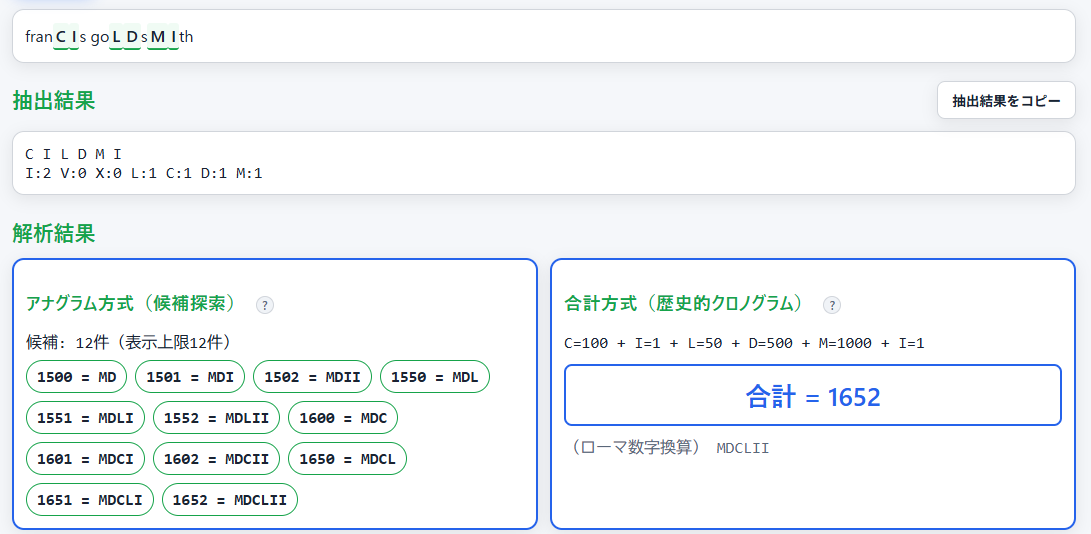
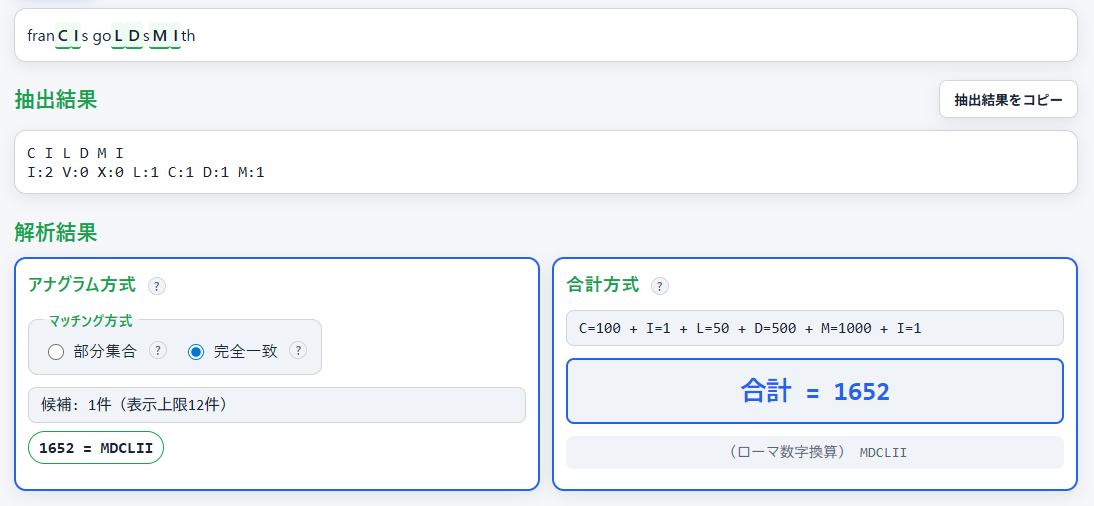
解析結果に改善を加えた

diff --git a/script.js b/script.js
@@ -41,11 +41,22 @@ function countLetters(str, filterToRoman=true){
 }
 
 // Check if romanStr can be formed from available roman letter counts
-function canFormFromCounts(romanStr, availableCounts){
+// mode: 'subset' (default) allows partial use, 'exact' requires all letters to be used
+function canFormFromCounts(romanStr, availableCounts, mode='subset'){
   const need = countLetters(romanStr, false);
+
+  // Check if we have enough of each needed letter
   for(const k in need){
     if(!availableCounts[k] || availableCounts[k] < need[k]) return false;
   }
+
+  // If exact mode, check that all available letters are used
+  if(mode === 'exact'){
+    for(const k in availableCounts){
+      if(availableCounts[k] !== (need[k] || 0)) return false;
+    }
+  }
+
   return true;
 }
 
@@ -168,24 +179,46 @@ function escapeHtml(s){
 }
 
 // ====== Sum (historical chronogram) ======
-function sumRomanLetters(letters){
+// mode: 'addition' (default) - simple sum, 'subtraction' - apply roman numeral subtraction rules
+function sumRomanLetters(letters, mode='addition'){
   let sum = 0;
   const steps = [];
-  for(const ch of letters){
-    const v = ROMAN_VALUES[ch] || 0;
-    sum += v;
-    steps.push(`${ch}=${v}`);
+
+  if(mode === 'subtraction'){
+    // Apply subtractive notation rules (IV=4, IX=9, XL=40, XC=90, CD=400, CM=900)
+    for(let i = 0; i < letters.length; i++){
+      const current = ROMAN_VALUES[letters[i]] || 0;
+      const next = i + 1 < letters.length ? (ROMAN_VALUES[letters[i+1]] || 0) : 0;
+
+      if(current < next){
+        // Subtraction case: smaller value before larger
+        sum -= current;
+        steps.push(`${letters[i]}=-${current}`);
+      } else {
+        // Addition case
+        sum += current;
+        steps.push(`${letters[i]}=+${current}`);
+      }
+    }
+  } else {
+    // Simple addition (historical chronogram method)
+    for(const ch of letters){
+      const v = ROMAN_VALUES[ch] || 0;
+      sum += v;
+      steps.push(`${ch}=${v}`);
+    }
   }
+
   return { sum, steps };
 }
 
 // ====== Anagram search ======
-function findAnagramYears(availableCounts, minYear, maxYear, maxShow=10){
+function findAnagramYears(availableCounts, minYear, maxYear, maxShow=10, mode='subset'){
   const found = [];
   for(let y = Math.max(1, minYear); y <= Math.max(minYear, maxYear); y++){
     const roman = intToRoman(y);
     if(!roman) continue;
-    if(canFormFromCounts(roman, availableCounts)){
+    if(canFormFromCounts(roman, availableCounts, mode)){
       found.push({ year:y, roman });
       if(found.length >= maxShow) break;
     }
@@ -322,8 +355,16 @@ updateButtonStates();
 // Update button states on input change
 $('#inputText').addEventListener('input', updateButtonStates);
 
-// Analyze
-$('#analyzeBtn').addEventListener('click', ()=>{
+// Store extracted data for recomputation
+let extractedData = {
+  letters: [],
+  counts: {},
+  minYear: 1500,
+  maxYear: 2100
+};
+
+// Main analysis function
+function performAnalysis(){
   const text = $('#inputText').value || "";
 
   // Input validation: limit text length to prevent DoS
@@ -355,34 +396,81 @@ $('#analyzeBtn').addEventListener('click', ()=>{
   const countsStr = ROMAN_KEYS.map(k=>`${k}:${counts[k]}`).join('  ');
   $('#letterCounts').textContent = countsStr;
 
-  // Sum method
-  const { sum, steps } = sumRomanLetters(letters);
-  $('#sumBreakdown').textContent = steps.length ? steps.join(' + ') : '（該当なし）';
-  $('#sumTotal').textContent = steps.length ? `合計 = ${sum}` : '合計 = 0';
-  $('#sumRoman').textContent = steps.length ? `（ローマ数字換算） ${intToRoman(sum)}` : '';
+  // Store extracted data for later recomputation
+  extractedData = { letters, counts, minYear, maxYear };
 
-  // Anagram method (always enabled)
-  if(letters.length){
-    const av = counts; // available counts
-    const candidates = findAnagramYears(av, minYear, maxYear, 12);
-    $('#anagramSummary').textContent = candidates.length
-      ? `候補: ${candidates.length}件（表示上限12件）`
-      : `候補なし（範囲: ${minYear}–${maxYear}）`;
-    const box = $('#anagramCandidates');
-    box.innerHTML = "";
-    candidates.forEach(c=>{
-      const tag = document.createElement('span');
-      tag.className = 'tag good mono';
-      tag.textContent = `${c.year} = ${c.roman}`;
-      box.appendChild(tag);
-    });
-  }else{
-    $('#anagramSummary').textContent = '（抽出なしのため探索をスキップ）';
-    $('#anagramCandidates').innerHTML = "";
-  }
+  // Update results with current modes
+  updateResults();
 
   // Update button states after analysis
   updateButtonStates();
+}
+
+// Update results based on current mode settings
+function updateResults(){
+  const anagramMode = document.querySelector('input[name="anagramMode"]:checked').value;
+  const { letters, counts, minYear, maxYear } = extractedData;
+
+  // Show/hide mode selectors based on whether we have results
+  const anagramModeSelector = document.querySelector('.card.result-card:nth-child(1) .radio-group');
+  const sumResultsContainer = document.querySelectorAll('.card.result-card:nth-child(2) > div');
+
+  if(letters.length === 0){
+    // Hide mode selector and results for anagram
+    if(anagramModeSelector) anagramModeSelector.style.display = 'none';
+    $('#anagramSummary').textContent = '';
+    $('#anagramCandidates').innerHTML = '';
+
+    // Hide results for sum
+    sumResultsContainer.forEach(el => {
+      if(!el.tagName || el.querySelector('h3')) return; // Skip if it's the h3 title
+      el.style.display = 'none';
+    });
+    $('#sumBreakdown').textContent = '';
+    $('#sumTotal').textContent = '';
+    $('#sumRoman').textContent = '';
+    return;
+  }
+
+  // Show mode selector and results
+  if(anagramModeSelector) anagramModeSelector.style.display = '';
+  sumResultsContainer.forEach(el => {
+    if(!el.tagName || el.querySelector('h3')) return;
+    el.style.display = '';
+  });
+
+  // Sum method (addition only)
+  const { sum, steps } = sumRomanLetters(letters, 'addition');
+  $('#sumBreakdown').textContent = steps.join(' + ');
+  $('#sumTotal').textContent = `合計 = ${sum}`;
+  $('#sumRoman').textContent = `（ローマ数字換算） ${intToRoman(sum)}`;
+
+  // Anagram method (with mode)
+  const av = counts; // available counts
+  const candidates = findAnagramYears(av, minYear, maxYear, 12, anagramMode);
+  $('#anagramSummary').textContent = candidates.length
+    ? `候補: ${candidates.length}件（表示上限12件）`
+    : `候補なし（範囲: ${minYear}–${maxYear}）`;
+  const box = $('#anagramCandidates');
+  box.innerHTML = "";
+  candidates.forEach(c=>{
+    const tag = document.createElement('span');
+    tag.className = 'tag good mono';
+    tag.textContent = `${c.year} = ${c.roman}`;
+    box.appendChild(tag);
+  });
+}
+
+// Analyze button
+$('#analyzeBtn').addEventListener('click', performAnalysis);
+
+// Listen for mode changes and update results in real-time
+document.querySelectorAll('input[name="anagramMode"]').forEach(radio => {
+  radio.addEventListener('change', () => {
+    if(extractedData.letters.length > 0){
+      updateResults();
+    }
+  });
 });
 
 $('#copyExtractBtn').addEventListener('click', async ()=>{

diff --git a/index.html b/index.html
@@ -48,7 +48,7 @@
               <fieldset class="radio-group">
                 <legend class="radio-legend">抽出方式</legend>
                 <label class="radio">
-                  <input type="radio" name="extractionMode" value="all" checked />
+                  <input type="radio" name="extractionMode" value="all" />
                   <span>全文字抽出</span>
                   <span class="help-icon tooltip-wrapper">
                     <span class="icon">?</span>
@@ -56,11 +56,11 @@
                   </span>
                 </label>
                 <label class="radio">
-                  <input type="radio" name="extractionMode" value="uppercase" />
+                  <input type="radio" name="extractionMode" value="uppercase" checked />
                   <span>大文字のみ</span>
                   <span class="help-icon tooltip-wrapper">
                     <span class="icon">?</span>
-                    <span class="tooltip">大文字で書かれたローマ数字のみ抽出。碑文で強調された文字のみを数える。</span>
+                    <span class="tooltip">大文字で書かれたローマ数字のみ抽出。碑文で強調された文字のみを数える。歴史的クロノグラムの標準的手法です。</span>
                   </span>
                 </label>
                 <label class="radio">
@@ -121,26 +121,45 @@
             <div class="results-grid">
               <div class="card result-card">
                 <h3>
-                  アナグラム方式（候補探索）
+                  アナグラム方式
                   <span class="help-icon tooltip-wrapper">
                     <span class="icon">?</span>
                     <span class="tooltip">抽出文字の手持ちだけで特定年のローマ数字表記を構成できるかを探索。</span>
                   </span>
                 </h3>
-                <div id="anagramSummary" class="mono"></div>
+                <fieldset class="radio-group">
+                  <legend class="radio-legend">マッチング方式</legend>
+                  <label class="radio">
+                    <input type="radio" name="anagramMode" value="subset" checked />
+                    <span>部分集合</span>
+                    <span class="help-icon tooltip-wrapper">
+                      <span class="icon">?</span>
+                      <span class="tooltip">抽出文字の一部を使って年号を構成可能な候補をすべて表示。歴史的クロノグラムでは通常こちらが用いられました（余剰文字は無視される）。</span>
+                    </span>
+                  </label>
+                  <label class="radio">
+                    <input type="radio" name="anagramMode" value="exact" />
+                    <span>完全一致</span>
+                    <span class="help-icon tooltip-wrapper">
+                      <span class="icon">?</span>
+                      <span class="tooltip">抽出文字をすべて使い切って年号を構成できる候補のみ表示（厳密なアナグラム）。歴史的にはまれな手法です。</span>
+                    </span>
+                  </label>
+                </fieldset>
+                <div id="anagramSummary" class="result-summary mono"></div>
                 <div id="anagramCandidates" class="tags"></div>
               </div>
               <div class="card result-card">
                 <h3>
-                  合計方式（歴史的クロノグラム）
+                  合計方式
                   <span class="help-icon tooltip-wrapper">
                     <span class="icon">?</span>
                     <span class="tooltip">抽出文字を数値化し合計（I=1, V=5, X=10, L=50, C=100, D=500, M=1000）。</span>
                   </span>
                 </h3>
-                <div id="sumBreakdown" class="mono"></div>
-                <div id="sumTotal" class="big-num"></div>
-                <div id="sumRoman" class="mono faint"></div>
+                <div id="sumBreakdown" class="result-summary mono"></div>
+                <div id="sumTotal" class="result-value mono"></div>
+                <div id="sumRoman" class="result-detail mono"></div>
               </div>
             </div>
           </div>

diff --git a/style.css b/style.css
@@ -545,8 +545,39 @@ body{
 .result-card h3{
   color:var(--accent-2);
   font-size:1.15rem;
+  margin-top:0;
+  margin-bottom:14px;
 }
 .mono{font-family: ui-monospace, SFMono-Regular, Menlo, Monaco, Consolas, "Liberation Mono", monospace}
+.result-summary{
+  font-size:0.95rem;
+  color:var(--text);
+  margin:12px 0 8px 0;
+  padding:8px 12px;
+  background:var(--panel-2);
+  border-radius:8px;
+  border:1px solid var(--border);
+}
+.result-value{
+  font-size:1.6rem;
+  margin:12px 0;
+  font-weight:700;
+  color:var(--accent);
+  padding:16px;
+  background:var(--panel-2);
+  border:2px solid var(--accent);
+  border-radius:8px;
+  text-align:center;
+}
+.result-detail{
+  font-size:0.9rem;
+  color:var(--muted);
+  margin:8px 0;
+  padding:8px 12px;
+  background:var(--panel-2);
+  border-radius:8px;
+  text-align:center;
+}
 .big-num{
   font-size:1.6rem;
   margin-top:12px;
